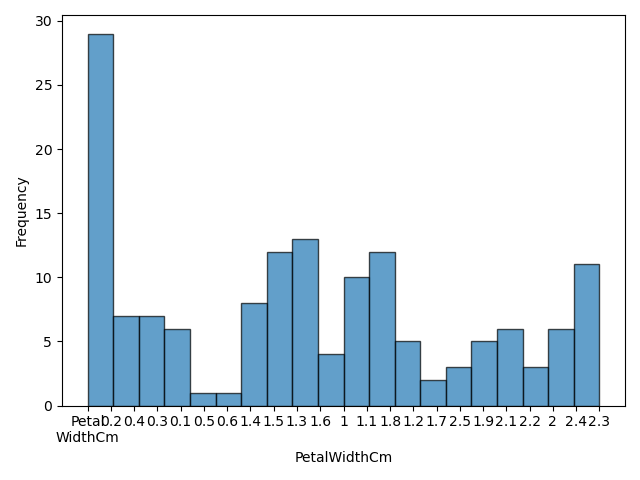
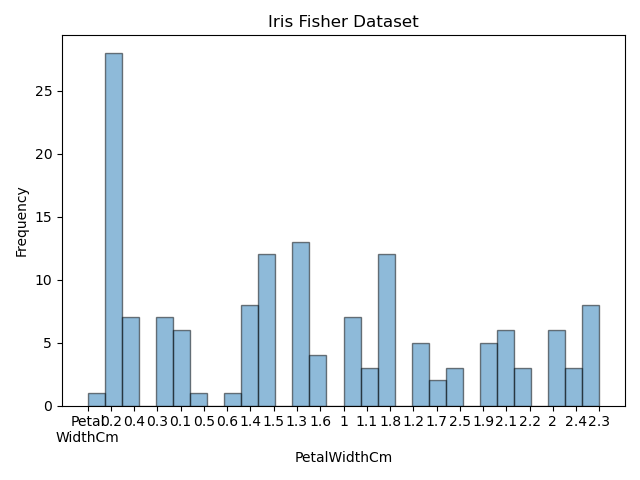
Iris Data

diff --git a/analysis.py b/analysis.py
@@ -16,11 +16,12 @@ stat_summary = iris.describe()
 with open('Iris Data Summary.txt', 'w') as f:
     f.write(str(stat_summary))
 
-hist_params = {'bins': 20, 'edgecolor': 'black', 'alpha': 0.7}
+hist_params = {'bins': 15, 'edgecolor': 'black', 'alpha': 0.5}
 
 # Generate a histogram of each variable and save it to a PNG file
 for col in iris.columns[:-1]:  # Skip the last column (class)
     plt.hist(iris[col], **hist_params)
+    plt.title('Iris Fisher Dataset')
     plt.xlabel(col)
     plt.ylabel('Frequency')
     plt.tight_layout()  # Add padding to the plot
